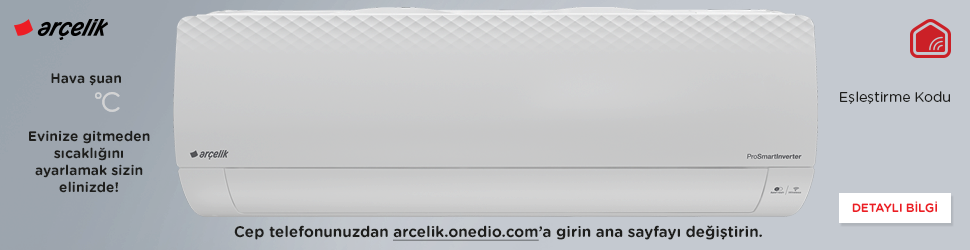
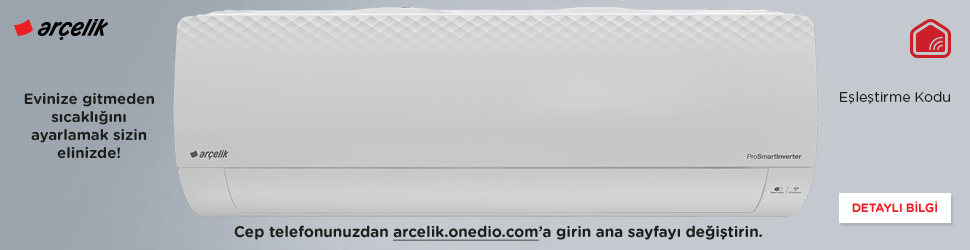
change url and bg

diff --git a/public/index.html b/public/index.html
@@ -141,7 +141,7 @@
 			<div class="row">
 				<div class="col-xs-12">
 					<p class="download">
-						Daha fazla özellik için Arçelik Connect<br>uygulamasını telefonunuza yüklemek için <a href="http://bit.ly/2vtdM3q" target="_blank">tıklayın.</a>
+						Daha fazla özellik için Arçelik Connect<br>uygulamasını telefonunuza yüklemek için <a id="downloadURL" target="_blank">tıklayın.</a>
 					</p>
 				</div>
 			</div>
@@ -163,7 +163,7 @@
 		  			<img src="img/close.png" data-dismiss="modal" class="close" />
 		  		</div>
 		  		<div class="modal-body">
-		    		<a href="http://bit.ly/2vtdM3q" target="_blank">
+		    		<a href="http://bit.ly/2hXQBLy" target="_blank">
 		    			<img src="img/banner.png" />
 		    		</a>
 		  		</div>

diff --git a/public/js/second.js b/public/js/second.js
@@ -15,6 +15,15 @@ $(document).ready(function(){
 
 
 	ga('send', 'event', 'Arcelik', 'Klima', 'Mobil');
+
+	var ios = navigator.userAgent.match('iPhone');
+
+	if(ios){
+		document.getElementById('downloadURL').href="http://bit.ly/2wI7nlc";
+	}
+	else {
+		document.getElementById('downloadURL').href="http://bit.ly/2vBlSHi";
+	}
 });
 
 function changeContainer(id){

diff --git a/public/js/first.js b/public/js/first.js
@@ -52,6 +52,16 @@ var socketMove = function(options){
 
 	socket.on('changeTemp', function(data){
 		airdegree.innerHTML = data.value;
+
+		if(data.value>25){
+			parent.arcelikMastheadMsg("sicak"); 
+		}
+		else if(data.value<=25 && data.value>22){
+			parent.arcelikMastheadMsg("normal"); 
+		}
+		else{
+			parent.arcelikMastheadMsg("soguk"); 
+		}	
 	});
 }
 

diff --git a/public/masthead.html b/public/masthead.html
@@ -32,7 +32,6 @@
 <body>
 
 	<div style="background-image: url('img/bg.png'); width: 970px; height: 250px;">
-		<div id="degree">32</div>
 		<div id="airdegree">20</div>
 		<img id="onoff" src="img/onoff.png" />
 		<div id="code"></div>
